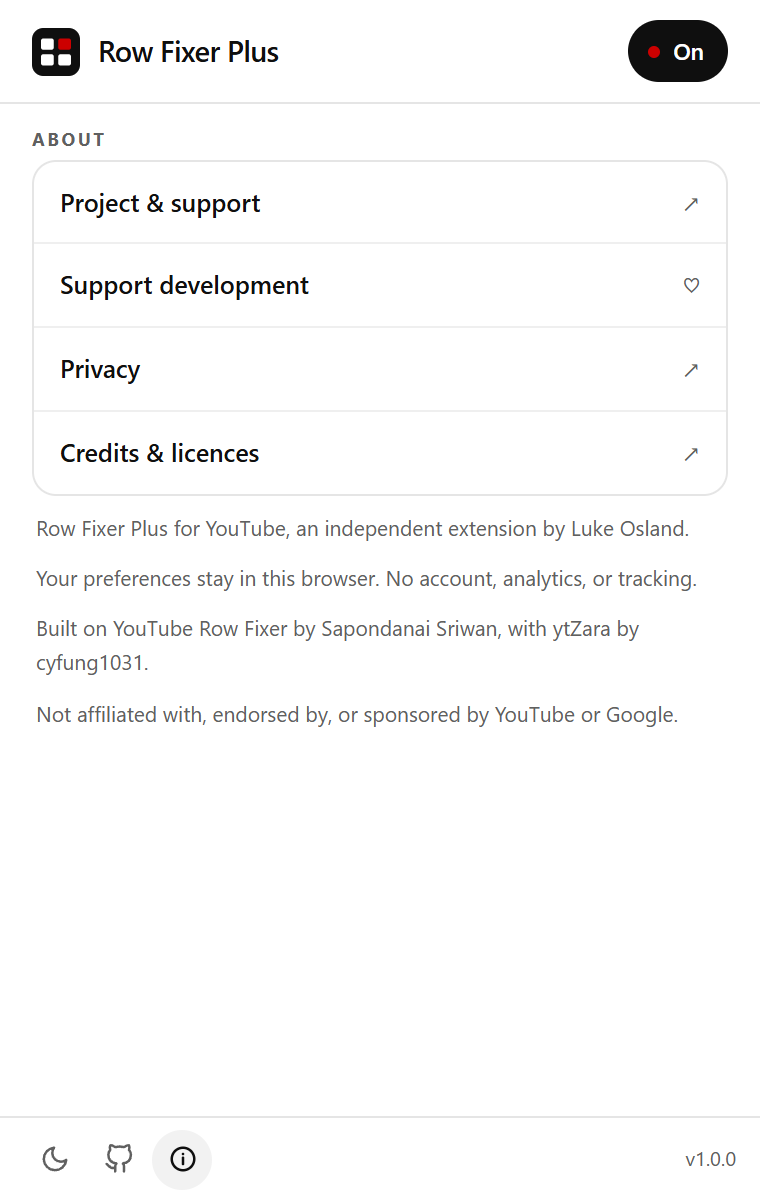
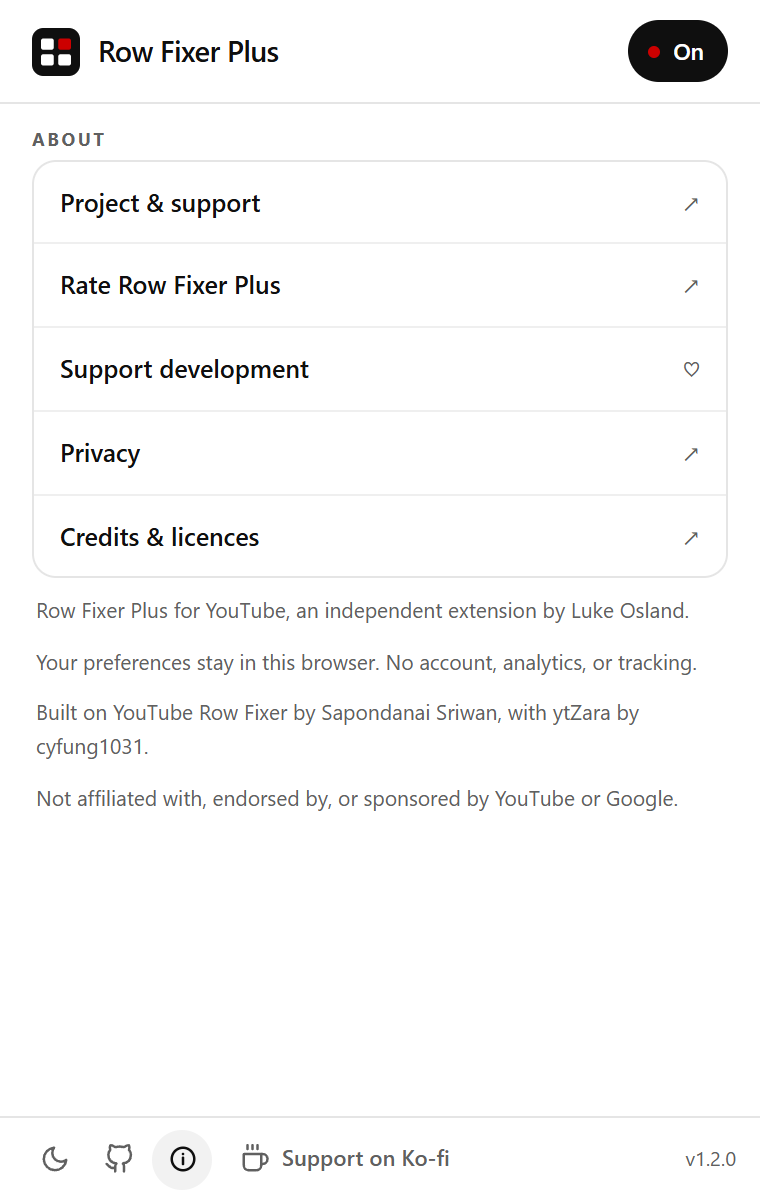
Sync both stores at 1.2.0 and add a Ko-fi link to the popup (#16)
Chrome Web Store published 1.0.0 while Firefox had 1.0.1 in review, so
the two listings were on different versions. Release 1.2.0 submits one
build to both. It skips 1.0.2-1.1.8, which belong to the upstream fork's
tag history and would collide on tagging.

Adds a "Support on Ko-fi" link to the popup footer beside the theme,
project, and about controls, and points brand.storeUrl at the live
Chrome listing so the in-popup rating link appears.

Rewrites the README installation section around the Chrome Web Store
listing, the Firefox listing still in review, and building from source.

diff --git a/src/components/section/Main.jsx b/src/components/section/Main.jsx
@@ -4,7 +4,7 @@ import SliderControl from "../ui/SliderControl";
 import LayoutPreview from "../ui/LayoutPreview";
 import ExtensionSetting from "./ExtensionSetting";
 import { ThemeSwitcher } from "./ThemeSwitcher";
-import { GithubIcon, InfoIcon } from "../icon/Icons";
+import { GithubIcon, InfoIcon, KofiIcon } from "../icon/Icons";
 import { useStorageState } from "../../hooks/useStorage";
 import {
   KeyChannelPageShelfItemPerRow,
@@ -163,6 +163,19 @@ export default function Main() {
           >
             <InfoIcon />
           </button>
+          {brand.donationUrl && (
+            <a
+              className="kofi-link"
+              href={brand.donationUrl}
+              target="_blank"
+              rel="noopener noreferrer"
+              aria-label={`Support ${brand.shortName} on Ko-fi`}
+              title={`Support ${brand.shortName} on Ko-fi`}
+            >
+              <KofiIcon />
+              Support on Ko-fi
+            </a>
+          )}
         </div>
         <span>v{brand.version}</span>
       </footer>

diff --git a/src/styles/globals.css b/src/styles/globals.css
@@ -470,6 +470,24 @@ input[type="range"]::-moz-range-thumb {
   background: var(--tray);
   color: var(--text);
 }
+.kofi-link {
+  display: inline-flex;
+  align-items: center;
+  gap: 6px;
+  height: 30px;
+  padding: 0 10px;
+  margin-left: 2px;
+  border-radius: 15px;
+  font-size: 11px;
+  font-weight: 500;
+  white-space: nowrap;
+  color: var(--muted);
+  text-decoration: none;
+}
+.kofi-link:hover {
+  background: var(--tray);
+  color: var(--accent);
+}
 .popup-footer > span {
   font-size: 10px;
   color: var(--muted);

diff --git a/src/components/icon/Icons.jsx b/src/components/icon/Icons.jsx
@@ -51,3 +51,15 @@ export function InfoIcon() {
     </svg>
   );
 }
+
+export function KofiIcon() {
+  return (
+    <svg {...base}>
+      <path d="M17 8h1a4 4 0 0 1 0 8h-1" />
+      <path d="M3 8h14v9a4 4 0 0 1-4 4H7a4 4 0 0 1-4-4Z" />
+      <line x1="6" y1="1" x2="6" y2="4" />
+      <line x1="10" y1="1" x2="10" y2="4" />
+      <line x1="14" y1="1" x2="14" y2="4" />
+    </svg>
+  );
+}

diff --git a/README.md b/README.md
@@ -8,6 +8,7 @@
 
 Choose how many videos fit in a row on YouTube, and hide the things you never watch.
 
+[![Chrome Web Store](https://img.shields.io/chrome-web-store/v/kdcmbgcilanlmlcilgenlioaicoonhmp?style=flat-square&label=Chrome%20Web%20Store)](https://chromewebstore.google.com/detail/row-fixer-plus/kdcmbgcilanlmlcilgenlioaicoonhmp)
 [![License](https://img.shields.io/github/license/LukeOsland1/row-fixer-plus?style=flat-square)](LICENSE)
 [![Stars](https://img.shields.io/github/stars/LukeOsland1/row-fixer-plus?style=flat-square)](https://github.com/LukeOsland1/row-fixer-plus/stargazers)
 [![Issues](https://img.shields.io/github/issues/LukeOsland1/row-fixer-plus?style=flat-square)](https://github.com/LukeOsland1/row-fixer-plus/issues)
@@ -48,23 +49,44 @@ Everything sits on one screen, and a live preview at the top shows the change be
 
 ## ✨ Installation
 
-Download the Chrome ZIP from the [latest release](https://github.com/LukeOsland1/row-fixer-plus/releases/latest) and extract it, or build it yourself with Node 22.13 or newer (Node 24 recommended):
+### Chrome, Edge, and other Chromium browsers
+
+[**Install from the Chrome Web Store**](https://chromewebstore.google.com/detail/row-fixer-plus/kdcmbgcilanlmlcilgenlioaicoonhmp) — then refresh YouTube.
+
+Edge, Brave, Opera, and Vivaldi install it from the same listing. Edge asks you to allow extensions from other stores first.
+
+### Firefox
+
+The [Firefox Add-ons listing](https://addons.mozilla.org/en-US/firefox/addon/5f5dbdfc875b48f9be5a/) is submitted and **waiting on Mozilla review** — the link stays a "page not found" until it is approved. Until then, install it manually:
+
+1. Download `Firefox v*.zip` from the [latest release](https://github.com/LukeOsland1/row-fixer-plus/releases/latest).
+2. Open `about:debugging#/runtime/this-firefox`.
+3. Click **Load Temporary Add-on** and pick the ZIP.
+4. Refresh YouTube.
+
+This needs Firefox 142 or newer, and a temporary add-on is removed when you close Firefox. Android is not supported.
+
+### Build and install it yourself
+
+Node 22.13 or newer (Node 24 recommended):
 
 ```bash
+git clone https://github.com/LukeOsland1/row-fixer-plus.git
+cd row-fixer-plus
 npm ci
 npm run build
 ```
 
-Then:
+`build/` now holds the unpacked extension. To load it:
 
-1. Open `chrome://extensions` (or `edge://extensions`).
-2. Turn on **Developer mode**, click **Load unpacked**.
-3. Pick the extracted Chrome folder (or `build` if you built from source).
-4. Refresh YouTube.
+- **Chrome or Edge** — open `chrome://extensions` (or `edge://extensions`), turn on **Developer mode**, click **Load unpacked**, and pick `build`.
+- **Firefox** — run `npm run zip` and load `zip/Firefox v*.zip` through `about:debugging` as above.
 
-Rebuilt it? Reload the extension on the extensions page, then refresh YouTube again. If you have the original YouTube Row Fixer installed, disable it — the two will fight over the same layout.
+Refresh YouTube afterwards. Rebuilt it? Reload the extension on the extensions page, then refresh YouTube again.
 
-`npm run zip` produces the store archives in `zip/`. Chrome's initial submission is under review; Firefox public distribution is being prepared. The Firefox ZIP requires Firefox 142 or newer and is unsigned; it can be loaded temporarily through `about:debugging` for testing. See [Firefox submission and reviewer notes](docs/FIREFOX_STORE.md) and [the shared release workflow](docs/RELEASING.md).
+`npm run zip` also produces the packaged store archives in `zip/`. Build and validation details are in [CONTRIBUTING.md](CONTRIBUTING.md), [Firefox submission and reviewer notes](docs/FIREFOX_STORE.md), and [the shared release workflow](docs/RELEASING.md).
+
+> If you have the original YouTube Row Fixer installed, disable it — the two will fight over the same layout.
 
 ## 🧑💻 Contributing
 

diff --git a/docs/RELEASING.md b/docs/RELEASING.md
@@ -1,6 +1,6 @@
 # Releasing both browser extensions
 
-`package.json` is the version source. Run `npm version 1.0.2 --no-git-tag-version` for the next release; its lifecycle script updates both store manifests, the development manifest, and the popup version. npm updates the lockfile. CI rejects mismatches. Never delete a Mozilla version to reuse its number: deletion does not free the number.
+`package.json` is the version source. Run `npm version 1.2.1 --no-git-tag-version` for the next release; its lifecycle script updates both store manifests, the development manifest, and the popup version. npm updates the lockfile. CI rejects mismatches. Never delete a Mozilla version to reuse its number: deletion does not free the number.
 
 ## One-time API setup
 
@@ -27,12 +27,12 @@ Repository Actions variables:
 
 Confirm the publisher ID against the Chrome dashboard's Publisher Settings before the first API submission. Firefox uses `row-fixer-plus@lukeosland1` from its manifest. The workflow always submits Firefox to the **listed** channel and supplies the MIT licence, source archive, release notes, and reviewer instructions.
 
-The initial Chrome listing, images, contact verification, and privacy declarations were completed before its first 1.0.0 submission. Firefox 1.0.1 was submitted to the listed channel with matching source and reviewer notes; its icon, two screenshots, and support link are saved. Check current review status in each dashboard. Do not cancel Chrome's pending 1.0.0 review simply to run the new pipeline.
+Chrome published 1.0.0 and Firefox had 1.0.1 in review, leaving the stores on different versions. Release 1.2.0 submits the same build to both to bring them back in line. Firefox's queued 1.0.1 is still reviewed independently; check current status in each dashboard.
 
 ## Release sequence
 
 1. Bump the shared version and add `releases/<version>.md`. Commit, open a PR, and merge after CI passes.
-2. Tag the merged commit, for example `git tag v1.0.1`, then `git push origin v1.0.1`.
+2. Tag the merged commit, for example `git tag v1.2.0`, then `git push origin v1.2.0`. Tags `v1.0.2` through `v1.1.8` belong to the upstream fork's history and are not Row Fixer Plus releases; do not reuse those numbers.
 3. **Release to stores** audits, builds, validates Firefox, and runs package/browser/publishing tests. It creates a GitHub release containing both ZIPs, the matching Firefox source, validation report, checksums, and commit provenance. Existing releases are not overwritten.
 4. After the release job succeeds, the same workflow automatically submits that tag to **both** stores. Pushing a release tag is now the submission action; no second dispatch is needed. Failed build or validation checks prevent both submissions. Store credentials are passed only to the submission workflow, and the two store jobs run independently.
 5. Check each store's result. A successful submission is not approval. The stores review independently, so the workflow keeps package versions aligned but cannot guarantee simultaneous publication.

diff --git a/docs/FIREFOX_STORE.md b/docs/FIREFOX_STORE.md
@@ -1,6 +1,8 @@
 # Firefox submission
 
-Version 1.0.0 was signed for unlisted distribution. Upload `zip/Firefox v1.0.1.zip` with **On this site** selected for the public submission. Deleting a Mozilla version does not allow reuse of its version number. Both browser packages now use 1.0.1; see [the shared release workflow](RELEASING.md). The package requires Firefox 142 or newer. Android support is not declared or tested.
+The listed submission is with Mozilla and awaiting review; its listing URL will be https://addons.mozilla.org/en-US/firefox/addon/5f5dbdfc875b48f9be5a/, which returns "page not found" until the review completes. Until then, users install the Firefox ZIP temporarily through `about:debugging`.
+
+Version 1.0.0 was signed for unlisted distribution. Upload `zip/Firefox v1.2.0.zip` with **On this site** selected for the public submission. Deleting a Mozilla version does not allow reuse of its version number. Both browser packages now use 1.2.0; see [the shared release workflow](RELEASING.md). The package requires Firefox 142 or newer. Android support is not declared or tested.
 
 The manifest declares `browser_specific_settings.gecko.data_collection_permissions.required` as `["none"]`: the extension does not collect or transmit personal data. Layout settings are stored locally. See the [privacy policy](../PRIVACY.md) and [Mozilla's data-consent documentation](https://extensionworkshop.com/documentation/develop/firefox-builtin-data-consent/). The minimum version includes support for the consent declaration and Manifest V3 APIs used by this extension.
 
@@ -15,7 +17,7 @@ npm run zip
 npm run lint:firefox
 ```
 
-The Firefox ZIP is written to `zip/Firefox v1.0.1.zip`. Validation uses Mozilla's pinned `addons-linter`; all files are scanned, errors fail the command, and warnings remain visible. The full report is `zip/firefox-validation.json`. ZIP timestamps can differ between builds.
+The Firefox ZIP is written to `zip/Firefox v1.2.0.zip`. Validation uses Mozilla's pinned `addons-linter`; all files are scanned, errors fail the command, and warnings remain visible. The full report is `zip/firefox-validation.json`. ZIP timestamps can differ between builds.
 
 ## Reviewer notes
 

diff --git a/docs/CHROME_STORE.md b/docs/CHROME_STORE.md
@@ -37,10 +37,10 @@ Privacy policy URL: https://github.com/LukeOsland1/row-fixer-plus/blob/main/PRIV
 ## Still needed before submission
 
 1. In your developer dashboard, confirm account verification and registration are complete.
-2. The first 1.0.0 submission is already under review. Use `zip/Chrome v1.0.1.zip` for the next update after that review completes. It contains the manifest at the ZIP root. See [automated releases](RELEASING.md).
+2. The listing is published at https://chromewebstore.google.com/detail/row-fixer-plus/kdcmbgcilanlmlcilgenlioaicoonhmp (extension ID `kdcmbgcilanlmlcilgenlioaicoonhmp`). Use `zip/Chrome v1.2.0.zip` for the next update. It contains the manifest at the ZIP root. See [automated releases](RELEASING.md).
 3. Use the draft listing and privacy answers above. Upload `public/images/row-fixer-plus-128.png`, the two 1280×800 images in `docs/store-assets`, and `promo-440x280.png`.
 4. The user completed the initial store upload and submission. The connected browser tool cannot script the Chrome Web Store dashboard; future releases can use the API workflow once credentials are configured.
-5. Once Chrome assigns your listing URL, set `storeUrl` in `src/data/brand.json` to enable your rating link and rebuild for the next update.
+5. Done: `storeUrl` in `src/data/brand.json` points at the published listing, so the popup shows the rating link. Rebuild to pick it up.
 
 ## Prepared and verified
 

diff --git a/releases/1.2.0.md b/releases/1.2.0.md
@@ -1,0 +1,11 @@
+Row Fixer Plus 1.2.0 brings both stores onto the same version. Chrome Web Store was live on 1.0.0 while Firefox had 1.0.1 in review, so this release republishes both from one build.
+
+- Added a "Support on Ko-fi" link to the popup footer, next to the theme, project, and about controls.
+- Chrome Web Store and Firefox Add-ons now ship the identical 1.2.0 package.
+- Installation instructions cover the Chrome Web Store listing, the pending Firefox listing, and building from source.
+- Customise YouTube grid layouts and separate channel-page settings.
+- Hide Shorts, Playables, and channel avatars; choose light or dark popup appearance.
+- Preferences stay on your device. No analytics or personal data collection.
+- Firefox requires version 142 or newer. The two validator warnings originate in the unmodified React DOM renderer; reviewer notes and matching source are included.
+
+Store review and publication happen independently, so submission does not mean either store has approved the release.

diff --git a/CHANGELOG.md b/CHANGELOG.md
@@ -1,3 +1,10 @@
+# 1.2.0 — Row Fixer Plus (22 September 2026)
+
+- Added a "Support on Ko-fi" link to the popup footer.
+- Brought both stores onto one version: Chrome was published at 1.0.0 while Firefox had 1.0.1 in review.
+- Rewrote the installation instructions around the Chrome Web Store listing, the pending Firefox listing, and building from source.
+- Enabled the in-popup rating link now that the Chrome Web Store listing is live.
+
 # 1.0.0 — Row Fixer Plus (21 September 2026)
 
 - Updated the icon, README screenshots, store artwork, and release packages to match the new design.
